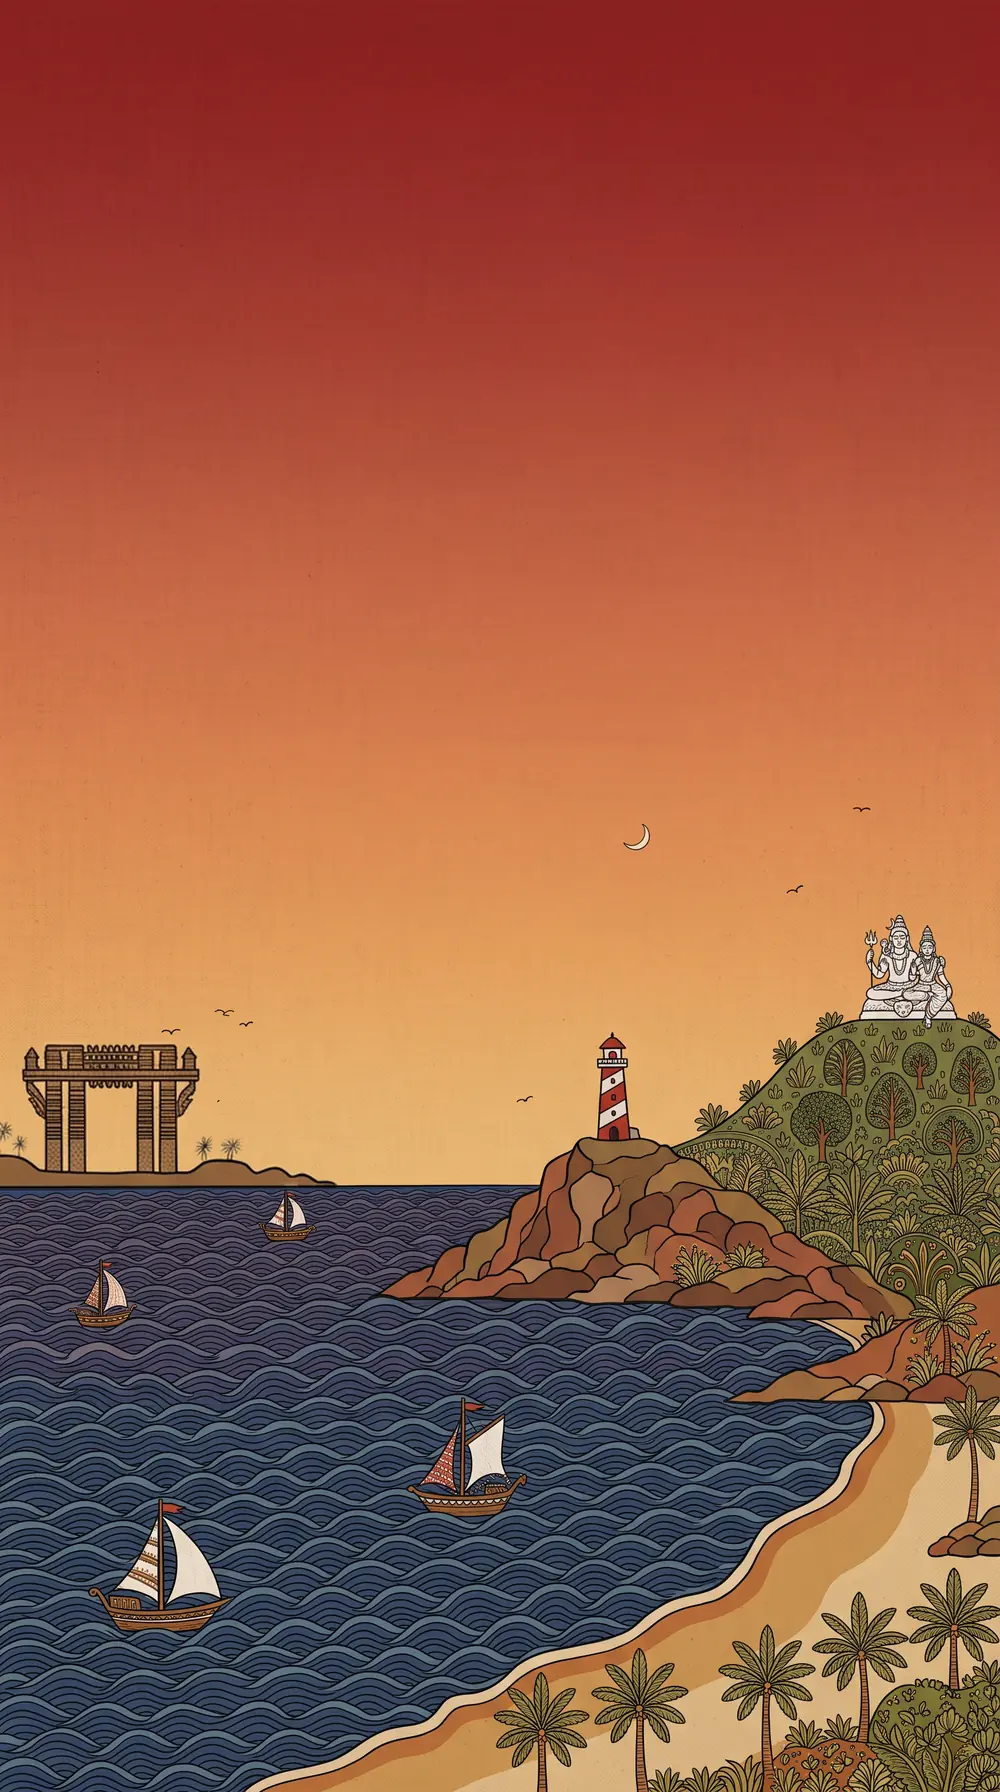
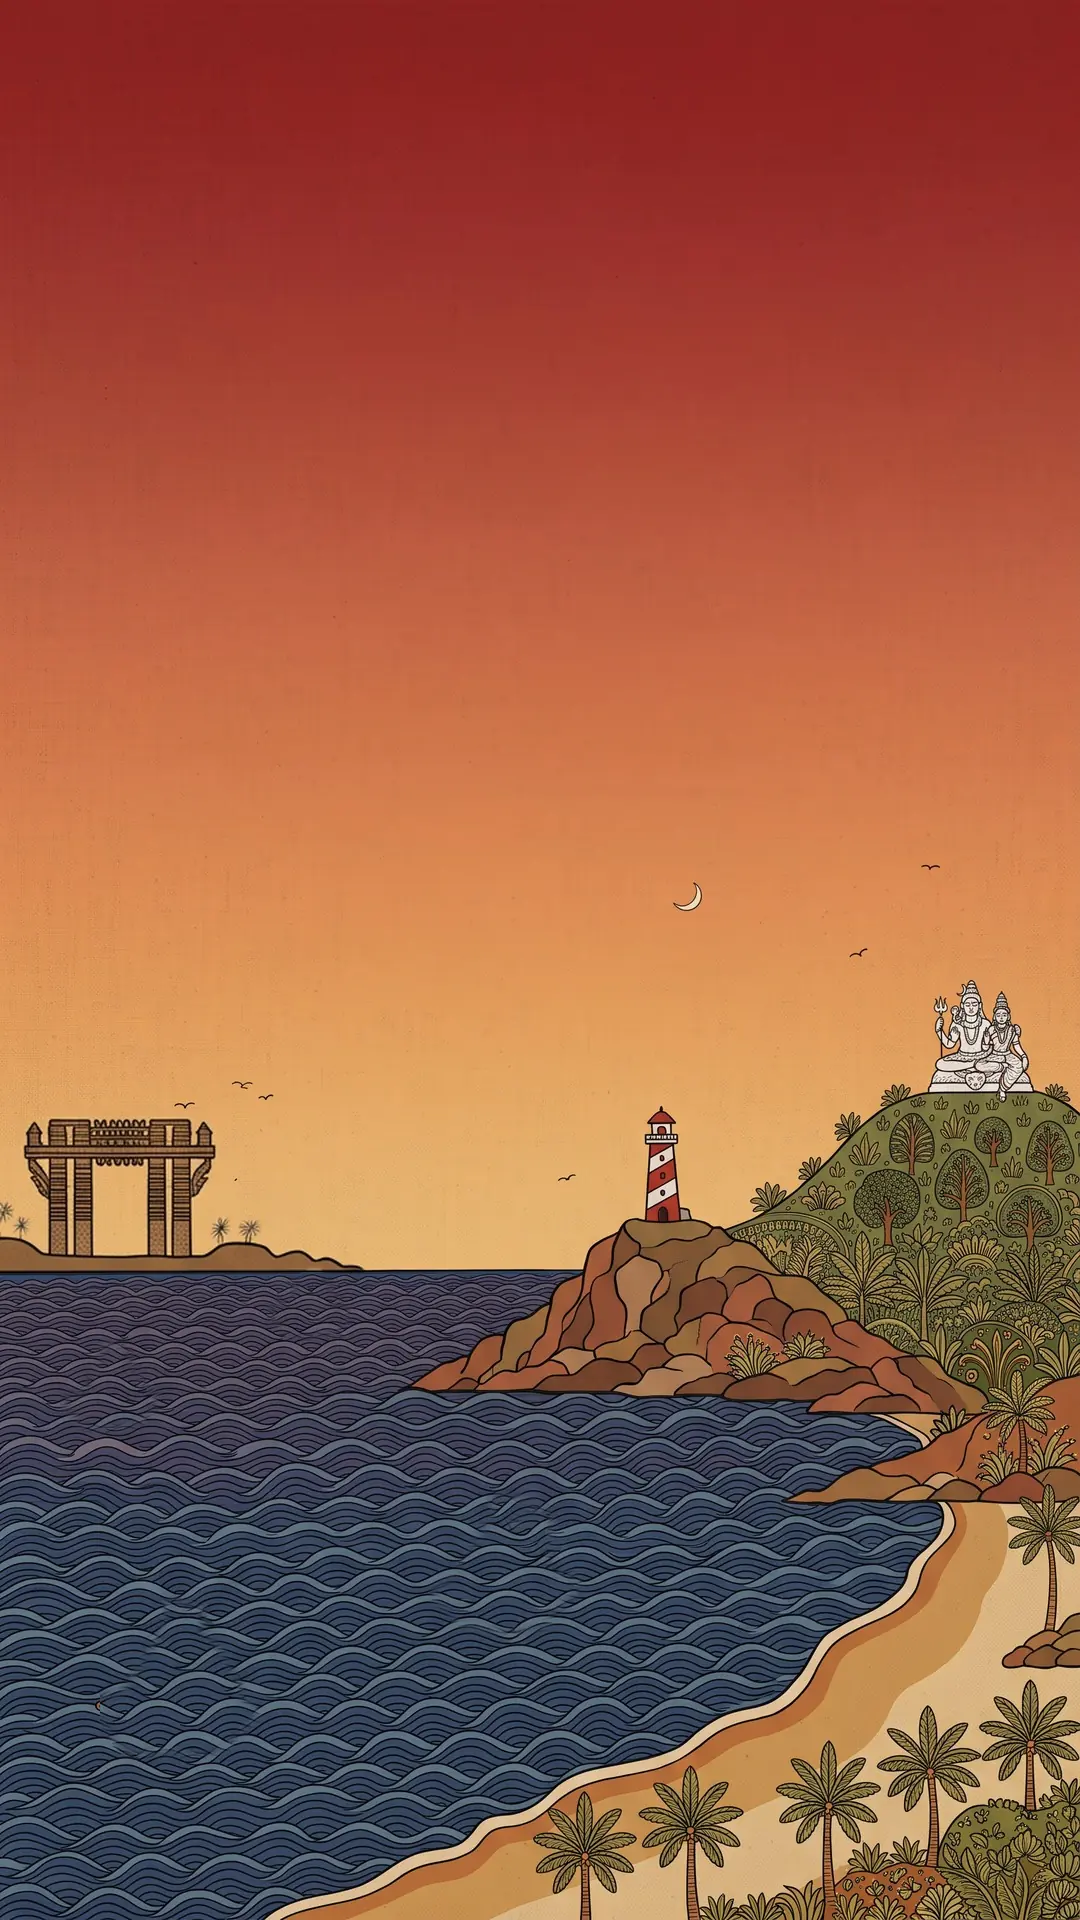
Living Vizag painting: cut-out boats sail and rock, birds fly, lighthouse beam sweeps; larger celebration text

diff --git a/styles.css b/styles.css
@@ -672,3 +672,75 @@ body.printed .telugu{opacity:.9!important}
 @media (min-aspect-ratio:4/5){.ct-bg{object-position:50% 47%}}
 @media (min-aspect-ratio:4/5){.cities{min-height:max(100svh,64vw)}.ct-bg{object-position:50% 62%}}
 @media (min-aspect-ratio:4/5){.cities{min-height:max(100svh,80vw)}.ct-bg{object-position:50% 58%}}
+
+/* ===== Round 15: living painting (boats + birds) and larger text on the celebrations screen ===== */
+.ct-art{position:absolute;left:0;top:0;width:100%;aspect-ratio:1000/1792;z-index:0;overflow:hidden}
+.ct-art .ct-bg{position:absolute;inset:0;width:100%;height:100%;object-fit:fill;margin:0;-webkit-mask-image:none;mask-image:none}
+@media (max-aspect-ratio:4/5){
+  .ct-art{order:2;position:relative;top:auto;margin-top:calc(-100vw * 1.792 * .47);-webkit-mask-image:linear-gradient(180deg,transparent 0,#000 14%);mask-image:linear-gradient(180deg,transparent 0,#000 14%)}
+}
+.ct-boat{position:absolute;width:7.5%;height:auto;max-width:none;transform:translate(-50%,-88%);opacity:0;will-change:left,opacity,transform}
+.ct-boat.b1{top:72.2%;animation:sailR 42s linear infinite,bob 3.4s ease-in-out infinite}
+.ct-boat.b2{top:78.6%;width:8.5%;animation:sailL 54s linear -18s infinite,bob 3.9s ease-in-out -1s infinite}
+@keyframes sailR{0%{left:-6%;opacity:0}8%{opacity:1}88%{opacity:1}100%{left:47%;opacity:0}}
+@keyframes sailL{0%{left:50%;opacity:0}8%{opacity:1}88%{opacity:1}100%{left:-6%;opacity:0}}
+@keyframes bob{0%,100%{transform:translate(-50%,-88%) rotate(-1.6deg)}50%{transform:translate(-50%,-84%) rotate(1.6deg)}}
+.ct-boat.b2{scale:-1 1}
+.ct-bird{position:absolute;width:3%;left:-6%;opacity:0;will-change:left,top}
+.ct-bird svg{width:100%;height:auto;display:block;transform-origin:50% 60%;animation:flap .9s ease-in-out infinite}
+.ct-bird.w1{top:52%;animation:fly 34s linear infinite}
+.ct-bird.w2{top:54%;width:2.4%;animation:fly 34s linear -1.2s infinite}
+.ct-bird.w3{top:50.5%;width:2.2%;animation:fly 34s linear -2.1s infinite}
+.ct-bird.w4{top:57%;width:2.6%;animation:fly2 41s linear -16s infinite}
+.ct-bird.w5{top:58.5%;width:2%;animation:fly2 41s linear -17.4s infinite}
+.ct-bird.w2 svg{animation-delay:-.3s}.ct-bird.w3 svg{animation-delay:-.55s}.ct-bird.w5 svg{animation-delay:-.4s}
+@keyframes fly{0%{left:-6%;opacity:0;transform:translateY(0)}6%{opacity:.85}50%{transform:translateY(-14px)}94%{opacity:.85}100%{left:104%;opacity:0;transform:translateY(4px)}}
+@keyframes fly2{0%{left:104%;opacity:0;transform:scaleX(-1)}6%{opacity:.8}94%{opacity:.8}100%{left:-6%;opacity:0;transform:scaleX(-1) translateY(-10px)}}
+@keyframes flap{0%,100%{transform:scaleY(1)}50%{transform:scaleY(-.55)}}
+@media (prefers-reduced-motion:reduce){.ct-boat,.ct-bird,.ct-bird svg{animation:none!important}.ct-boat{opacity:1;left:22%}.ct-bird{display:none}}
+/* larger text (client: "text size needs to go up slightly") */
+.ct-eye{font-size:13.5px;letter-spacing:.32em}
+.ct-title{font-size:clamp(54px,13.6vw,96px)}
+.ct-line{font-size:clamp(19.5px,5vw,26px);line-height:1.42}
+.ct-pair{gap:clamp(6px,2vw,18px)}
+.ct-k{font-size:clamp(11px,2.9vw,12.5px)}
+.ct-city{padding:1.05em .5em 1.1em}
+.ct-city b{font-size:clamp(22px,6vw,30px)}
+.ct-d{font-size:clamp(15.5px,4.1vw,18px)}
+.ct-sep{font-size:clamp(22px,5vw,32px)}
+@media (max-width:370px){.ct-city b{font-size:20px}.ct-d{font-size:15px}}
+@media (min-width:900px){.ct-city b{font-size:34px}.ct-d{font-size:19px}.ct-line{font-size:26px}.ct-k{font-size:13px}}
+.ct-city b{font-size:clamp(20px,5.3vw,30px)}
+.ct-city{padding:1.05em .45em 1.1em}
+.ct-pair{gap:clamp(5px,1.6vw,18px)}
+@media (min-width:900px){.ct-city b{font-size:34px}}
+
+/* Round 15b: the painting itself is a gentle Kling loop (boats, birds, waves) — 9:16 frame */
+.ct-art{aspect-ratio:1080/1920}
+.ct-art .ct-bg{object-fit:cover;background:#891f20}
+@media (max-aspect-ratio:4/5){.ct-art{margin-top:calc(-100vw * 1.7778 * .47)}}
+
+/* ===== Round 15c: the painting comes alive with its own cut-out boats, birds and the lighthouse beam ===== */
+.ct-art .ct-bg{object-fit:fill}
+.pb{position:absolute;left:var(--x0);height:auto;max-width:none;will-change:left,transform,opacity;transform-origin:50% 90%}
+/* far boats: drift and rock in place */
+.pb.b1{animation:driftS 14s ease-in-out infinite alternate,rock 3.6s ease-in-out infinite}
+.pb.b2{animation:driftS 17s ease-in-out -6s infinite alternate,rock 4.1s ease-in-out -1.3s infinite}
+@keyframes driftS{from{left:calc(var(--x0) - 2.2%)}to{left:calc(var(--x0) + 2.2%)}}
+/* near boats: sail across the open water, fade in/out at the edges */
+.pb.b3{animation:sail3 38s linear -14s infinite,rock 3.2s ease-in-out infinite}
+.pb.b4{animation:sail4 46s linear -30s infinite,rock 3.8s ease-in-out -.8s infinite}
+@keyframes sail3{0%{left:4%;opacity:0}7%{opacity:1}90%{opacity:1}100%{left:58%;opacity:0}}
+@keyframes sail4{0%{left:-6%;opacity:0}7%{opacity:1}90%{opacity:1}100%{left:44%;opacity:0}}
+@keyframes rock{0%,100%{transform:translateY(0) rotate(-2deg)}50%{transform:translateY(-6%) rotate(2deg)}}
+/* lighthouse: soft lamp glow + sweeping beam */
+.lh-glow{position:absolute;left:61.2%;top:58.75%;width:9%;aspect-ratio:1;transform:translate(-50%,-50%);border-radius:50%;
+  background:radial-gradient(circle,rgba(255,244,200,.95) 0,rgba(255,214,120,.55) 28%,rgba(255,190,90,0) 70%);mix-blend-mode:screen;animation:lamp 3s ease-in-out infinite}
+@keyframes lamp{0%,100%{opacity:.55;transform:translate(-50%,-50%) scale(.85)}50%{opacity:1;transform:translate(-50%,-50%) scale(1.15)}}
+.lh-beam{position:absolute;left:61.2%;top:58.75%;width:46%;height:5%;transform-origin:0 50%;mix-blend-mode:screen;pointer-events:none;
+  background:linear-gradient(90deg,rgba(255,240,190,.75),rgba(255,225,160,.25) 55%,rgba(255,220,150,0));
+  clip-path:polygon(0 44%,100% 0,100% 100%,0 56%);animation:sweep 7s linear infinite}
+@keyframes sweep{0%{transform:translateY(-50%) scaleX(1);opacity:.85}25%{transform:translateY(-50%) scaleX(.04);opacity:.25}50%{transform:translateY(-50%) scaleX(-1);opacity:.7}75%{transform:translateY(-50%) scaleX(-.04);opacity:.25}100%{transform:translateY(-50%) scaleX(1);opacity:.85}}
+@media (prefers-reduced-motion:reduce){.pb,.lh-glow,.lh-beam{animation:none!important}.pb{opacity:1}.lh-beam{display:none}}
+.pb.b3{animation:sail3 42s linear -6s infinite,rock 3.2s ease-in-out infinite}
+.pb.b4{animation:sail4 42s linear -27s infinite,rock 3.8s ease-in-out -.8s infinite}

diff --git a/index.html b/index.html
@@ -18,7 +18,7 @@
 <link rel="preconnect" href="https://fonts.googleapis.com">
 <link rel="preconnect" href="https://fonts.gstatic.com" crossorigin>
 <link href="https://fonts.googleapis.com/css2?family=Great+Vibes&family=Playfair+Display:wght@400;500&family=Ramabhadra&family=Prata&family=Marcellus&family=EB+Garamond:ital,wght@0,400;0,500;0,600;1,400;1,500&display=swap" rel="stylesheet">
-<link rel="stylesheet" href="styles.css?v=46">
+<link rel="stylesheet" href="styles.css?v=50">
 </head>
 <body class="locked">
 
@@ -73,7 +73,19 @@
 
 <!-- ================= OUR TWO CELEBRATIONS: one screen over the Vizag coast painting ================= -->
 <section class="cities" id="journey">
-  <img class="ct-bg" src="assets/img/vizag-bg.webp?v=2" alt="" width="1000" height="1792" loading="lazy">
+  <div class="ct-art" aria-hidden="true">
+    <img class="ct-bg" src="assets/img/vizag-bg.webp?v=5" alt="" width="1080" height="1920" loading="lazy">
+    <i class="lh-glow"></i><i class="lh-beam"></i>
+    <img class="pb b1" src="assets/img/boat-b1.webp" alt="" style="--x0:25.556%;top:66.354%;width:6.389%" loading="lazy">
+    <img class="pb b2" src="assets/img/boat-b2.webp" alt="" style="--x0:6.389%;top:70.208%;width:7.685%" loading="lazy">
+    <img class="pb b3" src="assets/img/boat-b3.webp" alt="" style="--x0:40.556%;top:77.917%;width:12.315%" loading="lazy">
+    <img class="pb b4" src="assets/img/boat-b4.webp" alt="" style="--x0:9.259%;top:83.542%;width:14.074%" loading="lazy">
+    <i class="ct-bird w1"><svg viewBox="0 0 40 16"><path d="M1 9 Q10 1 20 9 Q30 1 39 9" fill="none" stroke="#4a1e10" stroke-width="2.4" stroke-linecap="round"/></svg></i>
+    <i class="ct-bird w2"><svg viewBox="0 0 40 16"><path d="M1 9 Q10 1 20 9 Q30 1 39 9" fill="none" stroke="#4a1e10" stroke-width="2.4" stroke-linecap="round"/></svg></i>
+    <i class="ct-bird w3"><svg viewBox="0 0 40 16"><path d="M1 9 Q10 1 20 9 Q30 1 39 9" fill="none" stroke="#4a1e10" stroke-width="2.4" stroke-linecap="round"/></svg></i>
+    <i class="ct-bird w4"><svg viewBox="0 0 40 16"><path d="M1 9 Q10 1 20 9 Q30 1 39 9" fill="none" stroke="#4a1e10" stroke-width="2.4" stroke-linecap="round"/></svg></i>
+    <i class="ct-bird w5"><svg viewBox="0 0 40 16"><path d="M1 9 Q10 1 20 9 Q30 1 39 9" fill="none" stroke="#4a1e10" stroke-width="2.4" stroke-linecap="round"/></svg></i>
+  </div>
   <div class="ct-inner">
     <p class="eyebrow ct-eye reveal">Vizag <span>&amp;</span> Hanamkonda</p>
     <h2 class="ct-title reveal">Our Two Celebrations</h2>
@@ -146,6 +158,6 @@
   <svg class="mb-on" viewBox="0 0 24 24" fill="none" stroke="currentColor" stroke-width="1.6"><path d="M9 18V6l10-2v12"/><circle cx="6.5" cy="18" r="2.5"/><circle cx="16.5" cy="16" r="2.5"/></svg>
   <span class="mb-bars"><i></i><i></i><i></i></span>
 </button>
-<script src="script.js?v=32"></script>
+<script src="script.js?v=34"></script>
 </body>
 </html>

diff --git a/script.js b/script.js
@@ -140,19 +140,26 @@
 
   /* ================= "Our Two Celebrations": keep the painting's lighthouse clear of the cards on wide screens ================= */
   (() => {
-    const sec = $('#journey.cities'), img = sec && $('.ct-bg', sec), pair = sec && $('.ct-pair', sec); if (!sec) return;
+    const sec = $('#journey.cities'), art = sec && $('.ct-art', sec), pair = sec && $('.ct-pair', sec); if (!sec) return;
     const fit = () => {
-      if (innerWidth / innerHeight < .8) { sec.style.minHeight = ''; img.style.objectPosition = ''; return; }
+      if (innerWidth / innerHeight < .8) { sec.style.minHeight = ''; art.style.top = ''; return; }
       const W = sec.clientWidth, cardsBottom = pair.getBoundingClientRect().bottom - sec.getBoundingClientRect().top;
-      const want = cardsBottom + 70;                         // lighthouse top sits 70px under the cards
-      const dispH0 = 1792 * (W / 1000);
-      const secH = Math.max(innerHeight, Math.round(want + (.80 - .585) * dispH0));   // show down to the sand
+      const want = cardsBottom + 70;                          // lighthouse top sits 70px under the cards
+      const artH = 1920 * (W / 1080);
+      const secH = Math.max(innerHeight, Math.round(want + (.80 - .585) * artH));   // show down to the sand
       sec.style.minHeight = secH + 'px';
-      const dispH = 1792 * Math.max(W / 1000, secH / 1792);
-      const off = Math.min(Math.max(.585 * dispH - want, 0), dispH - secH);
-      img.style.objectPosition = `50% ${dispH - secH > 0 ? (off / (dispH - secH) * 100).toFixed(2) : 50}%`;
+      const off = Math.min(Math.max(.585 * artH - want, 0), artH - secH);
+      art.style.top = (-off) + 'px';
     };
     addEventListener('resize', fit); addEventListener('load', fit); document.fonts && document.fonts.ready.then(fit); fit();
+    const vid = $('video.ct-bg', sec);
+    if (vid && !reduce) {
+      vid.muted = true;
+      new IntersectionObserver(es => es.forEach(e => {
+        if (e.isIntersecting) { if (vid.preload !== 'auto') vid.preload = 'auto'; const p = vid.play(); p && p.catch && p.catch(() => {}); }
+        else vid.pause();
+      }), { rootMargin: '200px 0px' }).observe(sec);
+    }
   })();
 
   /* ================= subtle parallax while scrolling ================= */
